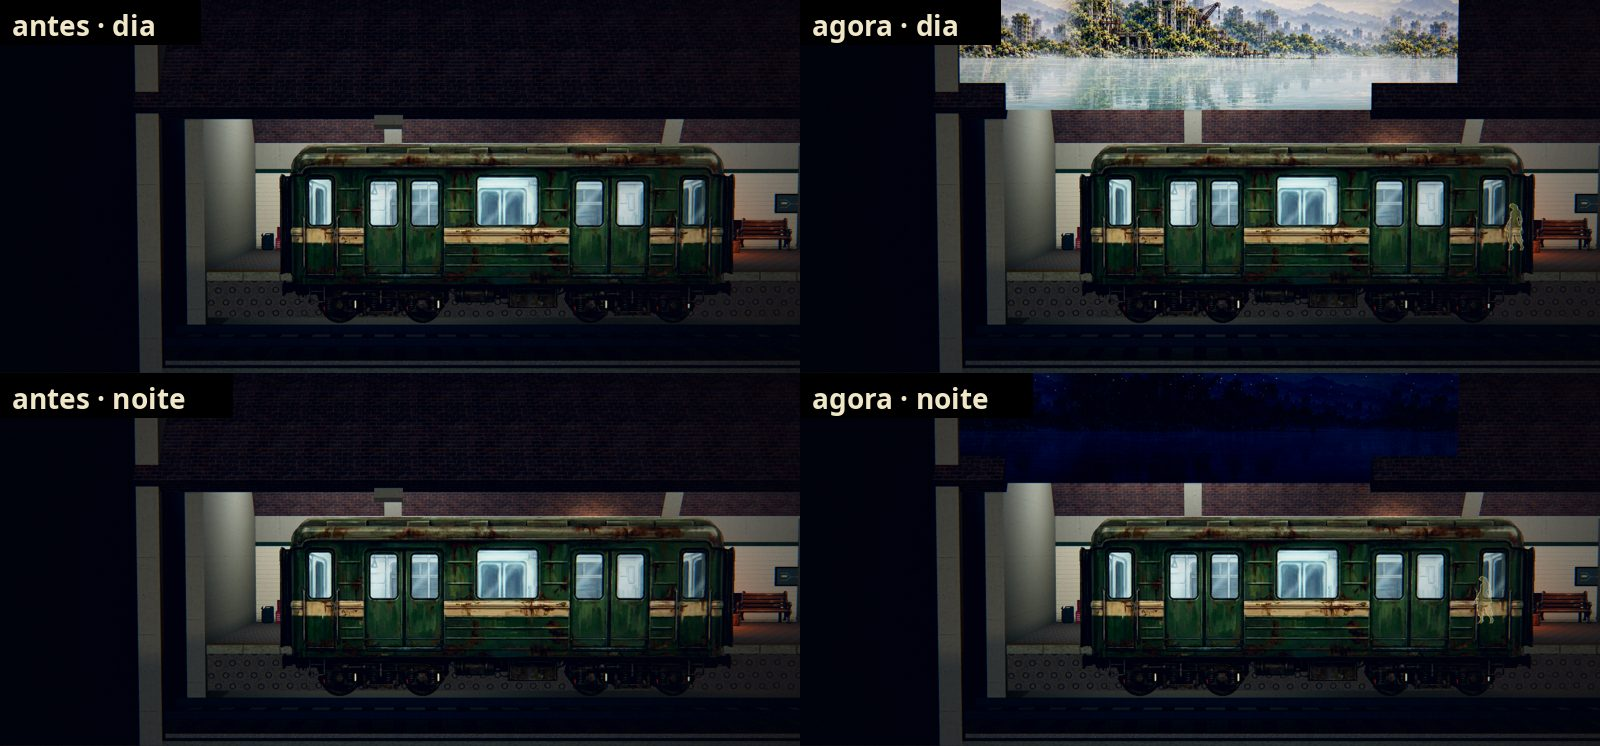
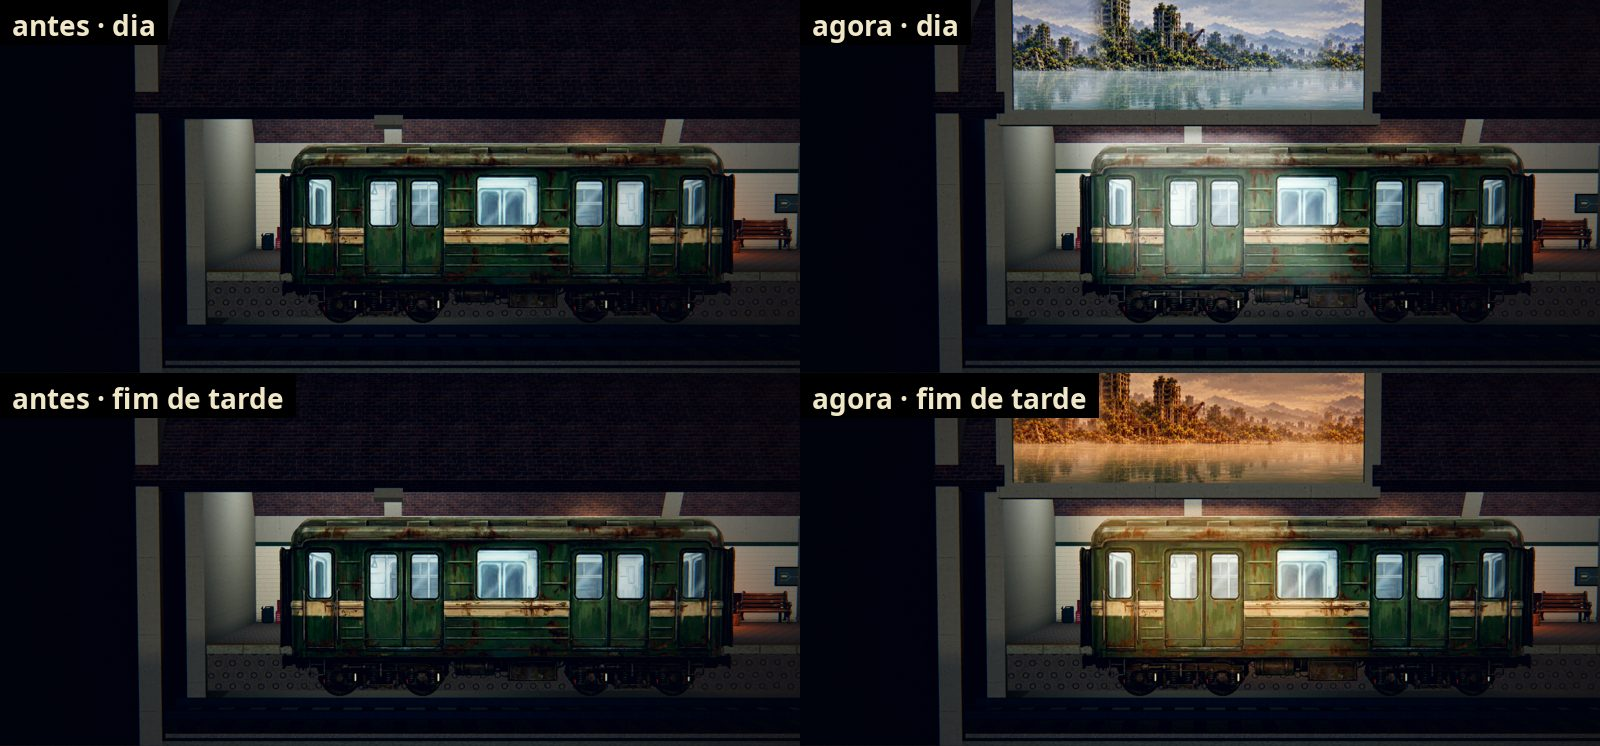
#217: as fotos e o doc da rodada 1 da QA (a moldura e o feixe)
Made with Awesomic

diff --git a/docs/qa/station-outside.md b/docs/qa/station-outside.md
@@ -1,13 +1,13 @@
-# A vista de fora no fim da linha (#217)
+# A vista de fora na saída do trem (#217)
 
-Antes, a Estação era toda fechada e não dava para saber se era dia ou noite. Agora, no fim da linha (a ponta esquerda
-da plataforma, sobre a boca do túnel por onde o trem sai), a abóbada se abre para fora: por ela aparece um pedaço do
-Bairro Submerso com a cor da hora do dia, e a luz de fora cai de leve na ponta da plataforma. O resto da Estação não
-muda.
+Antes, a Estação era toda fechada e não dava para saber se era dia ou noite. Agora, na saída do trem (a ponta esquerda
+da plataforma, sobre a boca do túnel por onde o trem sai), a abóbada se abre para fora: por um vão emoldurado aparece
+um pedaço do Bairro Submerso com a cor da hora do dia, e um feixe da luz de fora desce de leve sobre o vagão e a via.
+O resto da Estação não muda.
 
 ![a plataforma, com a mesma câmera, nas quatro horas: antes e agora](station-outside/platform.jpg)
 
-![de perto, o fim da linha de dia e de noite: antes e agora](station-outside/exit.jpg)
+![de perto, a saída do trem de dia e no fim de tarde: antes e agora](station-outside/exit.jpg)
 
 ![a vista geral de dia: antes e agora](station-outside/overview.jpg)
 
@@ -19,13 +19,15 @@ A campanha não tem relógio. A hora sai do ciclo da Estação que já existe (o
 
 | Hora | Quando | A vista | A luz que entra |
 | --- | --- | --- | --- |
-| Fim de tarde | na volta, com a noite a planejar (`night.phase` `planning`) | pêssego, com o brilho no horizonte | quente |
-| Noite | durante a cena da noite (`AHStation.night_scene`) | azul-escura, com estrelas | fria e fraca |
-| Amanhecer | no resumo do amanhecer (`night.phase` `dawn`) | rosada, com um resto de estrelas | quente e fraca |
-| Dia | no resto (e em "Esperar um dia") | clara | branca, a mais forte |
+| Fim de tarde | na volta, com a noite a planejar (`night.phase` `planning`) | pêssego, com o brilho no horizonte | o feixe quente |
+| Noite | durante a cena da noite (`AHStation.night_scene`) | azul-escura, com estrelas | o feixe frio, quase apagado |
+| Amanhecer | no resumo do amanhecer (`night.phase` `dawn`) | rosada, com um resto de estrelas | o feixe rosado e fraco |
+| Dia | no resto (e em "Esperar um dia") | clara | o feixe branco, o mais forte |
 
 - **A troca é suave:** 1,5 s de uma hora para a outra quando a fase muda com a Estação aberta. Ao abrir a Estação, a
-  hora já está certa.
+  hora já está certa, também quando a volta é entregue na própria Estação (o jogo fechou no relatório da rua).
+- **A luz:** o feixe é um plano aditivo na frente do vagão, para aparecer em qualquer renderer (no Compatibility, o da
+  web, uma luz a mais não aparecia). Uma SpotLight fraca vai junto, para o Forward+.
 - **O clima:** a Estação não guarda o tempo da rua (ele só existe dentro da expedição e some na volta), então a vista
   não tem chuva, como a issue prevê ("se o jogo já tiver isso nos dados").
 - **O save não muda:** a hora é calculada, nada novo é gravado.
@@ -38,10 +40,12 @@ pedida ao design na #315, como a issue manda quando falta arte.
 
 ## Onde fica
 
-- `scripts/station/station_outside.gd` (`AHStationOutside`): a hora (`hour_of`), as cores por hora (`LOOK`), a vista
-  e a luz.
-- `scripts/station/station_build.gd`: o vão nos 6 segmentos da frente da abóbada, entre x 0,8 e 7,2 m
-  (`OUTSIDE_X0`, `OUTSIDE_X1`, `OUTSIDE_SEGMENTS`), e o lintel no alto dele.
+- `scripts/station/station_outside.gd` (`AHStationOutside`): a hora (`hour_of`), as cores por hora (`LOOK`), a vista,
+  o feixe e a luz. Os shaders: `shaders/station_outside.gdshader` e `shaders/station_outside_beam.gdshader`.
+- `scripts/station/station_build.gd`: o vão nos 6 segmentos da frente da abóbada, entre x 0,8 e 7,2 m e até 5,55 m
+  (`OUTSIDE_X0`, `OUTSIDE_X1`, `OUTSIDE_SEGMENTS`, `OUTSIDE_TOP`: o alto da abóbada como a câmera da plataforma o vê),
+  com o peitoril, o lintel e os montantes.
 - `scripts/station/station.gd`: monta a vista e acompanha a hora (`refresh_outside`).
-- `tests/test_station_outside.gd`: a hora em cada fase, as quatro vistas diferentes, a troca acompanhando a volta, a
-  cena da noite e o amanhecer, a abertura na câmera da plataforma, a vista fora do salão e o save intacto.
+- `tests/test_station_outside.gd`: a hora em cada fase, as quatro vistas e feixes diferentes, a troca acompanhando a
+  volta, a cena da noite (pelo caminho do HUD) e o amanhecer, a abertura na câmera da plataforma, a vista dentro da
+  moldura e fora do salão, e o save intacto.
